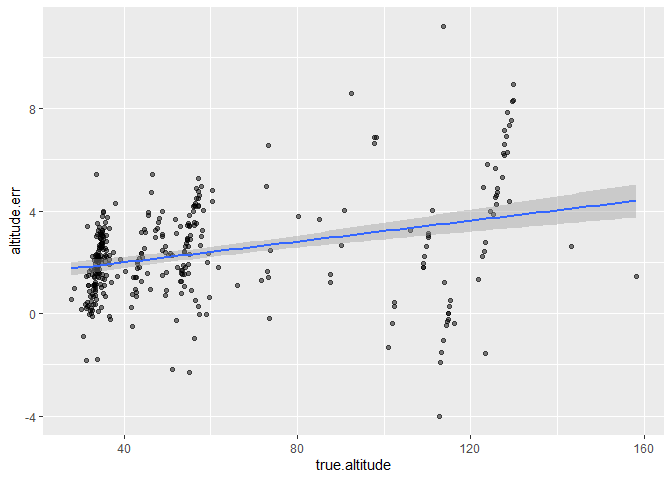
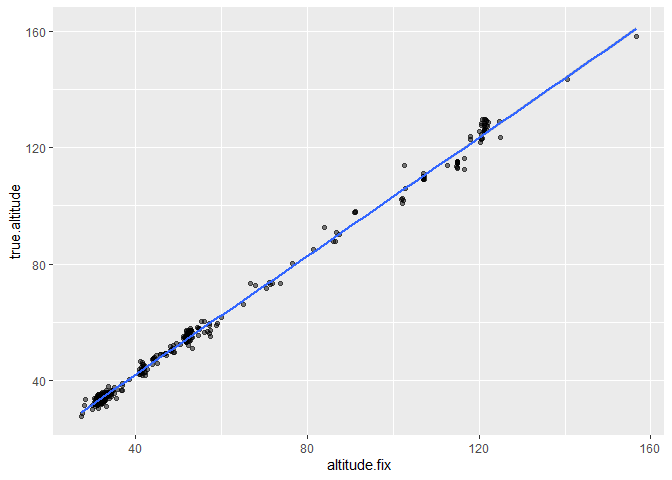
knit

diff --git a/README.md b/README.md
@@ -80,10 +80,10 @@ according to the drone’s data:
 
 *l**e**n**g**t**h* = alpha × true altitude × pixel length
 
-Where *alpha* is the camera’s correction factor, estimated in the lab by
-measuring objects of known length and distance. For the DJI Mini,
-*alpha* = 0.000328 at 3840, and *alpha* = 0.000656 at 1920 This equation
-is reflected in the following function:
+Where *alpha* is the camera’s correction factor, estimated empirically
+in the lab by measuring objects of known length and distance. For the
+DJI Mini, *alpha* = 0.000328 at 3840, and *alpha* = 0.000656 at 1920
+This equation is reflected in the following function:
 
     morpho.length.alpha <- function(image.width, altitude, length.pixels){
       alpha = ifelse(image.width == 3840, yes = 0.000328, no = 
@@ -113,8 +113,8 @@ using the DJI Mini Drone. The red line shows Balaena’s True
 length</figcaption>
 </figure>
 
-This means there is an under-estimate of Balaena’s length of mean =
-0.62, and s.d. = 0.48
+This means there is an under-estimate of Balaena’s length of mean = 0.55
+, and s.d. = 0.38
 
     dat$error <- dat$bal.length-12.03
     mean(dat$error)
@@ -125,6 +125,9 @@ This means there is an under-estimate of Balaena’s length of mean =
 
     ## [1] 0.3796155
 
+The following section models the error induced by inaccurate altitude
+measurements based on Burnett et al., 2018.
+
 ## Questions
 
 -   Where should the correction factor go - is it a constant that I add
@@ -132,11 +135,11 @@ This means there is an under-estimate of Balaena’s length of mean =
 
 ## Altitude experiment:
 
-I suspect that the majority of the error comes from bad altitude
-estimates. So I used our knowledge of Balaena’s true length, assumed all
-other measurements were adequate, and calculated **true altitude**, and
-found that the good altitudes are further away from the measured
-altitudes at higher altitudes. For this, I used the formula:
+Here, I will attempt to mitigate and measure of the error comes from bad
+altitude estimates. So I used our knowledge of Balaena’s true length,
+assumed all other measurements were adequate, and calculated **true
+altitude**, and found that the good altitudes are further away from the
+measured altitudes at higher altitudes. For this, I used the formula:
 
 $$
 true.altitude = \frac{true.length}{pixel.length}  \times alpha
@@ -158,7 +161,7 @@ Next, I estimated the altitude error as a raw value and a percentage:
     dat$altitude.err <- dat$true.altitude - dat$altitude.fix
     dat$altitude.err.p <- (dat$altitude.err/dat$true.altitude)
 
-Which results in the following error distribution in m:
+Which results in the following error distribution for the altitude in m:
 
     hist(dat$altitude.err, breaks = 30, xlab = "altitude error (m)", 
          main = "")
@@ -171,7 +174,7 @@ Which results in the following error distribution in m:
 
 How does this look across altitudes?
 
-    ggplot(dat, aes(x = true.altitude, y = altitude.err))+
+    ggplot(dat, aes(x = altitude.fix, y = true.altitude))+
       geom_point(alpha = 0.5)+
       theme(legend.position = "none")+ 
       geom_smooth(method = "lm")
@@ -179,6 +182,159 @@ How does this look across altitudes?
     ## `geom_smooth()` using formula = 'y ~ x'
 
 ![](Readme_files/figure-markdown_strict/unnamed-chunk-9-1.png)
+
+Can I model true altitude based on barometric altitude?
+
+    # model random intercept :
+    library(nlme)
+
+    ## 
+    ## Attaching package: 'nlme'
+
+    ## The following object is masked from 'package:dplyr':
+    ## 
+    ##     collapse
+
+    # should it be hierarchical?
+    m.int <- gls(true.altitude ~ altitude.fix, data = dat, method = "ML")
+    summary(m.int) #1430.031    
+
+    ## Generalized least squares fit by maximum likelihood
+    ##   Model: true.altitude ~ altitude.fix 
+    ##   Data: dat 
+    ##       AIC      BIC    logLik
+    ##   1405.26 1416.774 -699.6302
+    ## 
+    ## Coefficients:
+    ##                 Value  Std.Error   t-value p-value
+    ## (Intercept)  1.403227 0.20573563   6.82054       0
+    ## altitude.fix 1.017178 0.00326498 311.54199       0
+    ## 
+    ##  Correlation: 
+    ##              (Intr)
+    ## altitude.fix -0.872
+    ## 
+    ## Standardized residuals:
+    ##         Min          Q1         Med          Q3         Max 
+    ## -3.97545314 -0.55486561  0.03380869  0.58140085  4.31252602 
+    ## 
+    ## Residual standard error: 1.860415 
+    ## Degrees of freedom: 343 total; 341 residual
+
+    intervals(m.int, level = 0.9)
+
+    ## Approximate 90% confidence intervals
+    ## 
+    ##  Coefficients:
+    ##                 lower     est.    upper
+    ## (Intercept)  1.063900 1.403227 1.742554
+    ## altitude.fix 1.011793 1.017178 1.022563
+    ## 
+    ##  Residual standard error:
+    ##    lower     est.    upper 
+    ## 1.751039 1.860415 1.985693
+
+    # model random intercept :
+    m.rand <- lme(true.altitude ~ altitude.fix, data = dat, method = "ML",
+                  random = ~1|FlightNo)# 
+    summary(m.rand) # 1269.683  - probably yes?
+
+    ## Linear mixed-effects model fit by maximum likelihood
+    ##   Data: dat 
+    ##        AIC      BIC    logLik
+    ##   1209.342 1224.693 -600.6712
+    ## 
+    ## Random effects:
+    ##  Formula: ~1 | FlightNo
+    ##         (Intercept) Residual
+    ## StdDev:    1.560453 1.083304
+    ## 
+    ## Fixed effects:  true.altitude ~ altitude.fix 
+    ##                  Value Std.Error  DF   t-value p-value
+    ## (Intercept)  0.4708911 0.3002126 258   1.56853   0.118
+    ## altitude.fix 1.0357809 0.0042905 258 241.41272   0.000
+    ##  Correlation: 
+    ##              (Intr)
+    ## altitude.fix -0.786
+    ## 
+    ## Standardized Within-Group Residuals:
+    ##         Min          Q1         Med          Q3         Max 
+    ## -3.37722990 -0.45559838  0.05796488  0.41499318  5.39086086 
+    ## 
+    ## Number of Observations: 343
+    ## Number of Groups: 84
+
+    intervals(m.rand, level = 0.9)
+
+    ## Approximate 90% confidence intervals
+    ## 
+    ##  Fixed effects:
+    ##                    lower      est.     upper
+    ## (Intercept)  -0.02324717 0.4708911 0.9650293
+    ## altitude.fix  1.02871890 1.0357809 1.0428429
+    ## 
+    ##  Random Effects:
+    ##   Level: FlightNo 
+    ##                    lower     est.    upper
+    ## sd((Intercept)) 1.333379 1.560453 1.826198
+    ## 
+    ##  Within-group standard error:
+    ##    lower     est.    upper 
+    ## 1.006936 1.083304 1.165464
+
+    # add altitude:
+    m.rand.alt <- lme(altitude.err ~ true.altitude, data = dat, method = "ML",
+                  random = ~1|FlightNo)
+    anova(m.rand, m.int)# does help!
+
+    ##        Model df      AIC      BIC    logLik   Test L.Ratio p-value
+    ## m.rand     1  4 1209.342 1224.693 -600.6712                       
+    ## m.int      2  3 1405.260 1416.774 -699.6302 1 vs 2 197.918  <.0001
+
+    summary(m.rand.alt)# 1182.965   
+
+    ## Linear mixed-effects model fit by maximum likelihood
+    ##   Data: dat 
+    ##        AIC      BIC    logLik
+    ##   1182.965 1198.316 -587.4823
+    ## 
+    ## Random effects:
+    ##  Formula: ~1 | FlightNo
+    ##         (Intercept) Residual
+    ## StdDev:     1.57006 1.030225
+    ## 
+    ## Fixed effects:  altitude.err ~ true.altitude 
+    ##                    Value Std.Error  DF   t-value p-value
+    ## (Intercept)   0.08780486 0.2956846 258  0.296954  0.7667
+    ## true.altitude 0.04093958 0.0040099 258 10.209628  0.0000
+    ##  Correlation: 
+    ##               (Intr)
+    ## true.altitude -0.779
+    ## 
+    ## Standardized Within-Group Residuals:
+    ##         Min          Q1         Med          Q3         Max 
+    ## -3.43058937 -0.47390381  0.05549121  0.41167208  5.08073943 
+    ## 
+    ## Number of Observations: 343
+    ## Number of Groups: 84
+
+    intervals(m.rand.alt, level = 0.9)
+
+    ## Approximate 90% confidence intervals
+    ## 
+    ##  Fixed effects:
+    ##                     lower       est.      upper
+    ## (Intercept)   -0.39888055 0.08780486 0.57449027
+    ## true.altitude  0.03433944 0.04093958 0.04753972
+    ## 
+    ##  Random Effects:
+    ##   Level: FlightNo 
+    ##                    lower    est.    upper
+    ## sd((Intercept)) 1.342338 1.57006 1.836414
+    ## 
+    ##  Within-group standard error:
+    ##     lower      est.     upper 
+    ## 0.9570976 1.0302250 1.1089397
 
 How does **percent** error compare to altitude?
 
@@ -189,7 +345,7 @@ How does **percent** error compare to altitude?
 
     ## `geom_smooth()` using formula = 'y ~ x'
 
-![](Readme_files/figure-markdown_strict/unnamed-chunk-10-1.png)
+![](Readme_files/figure-markdown_strict/unnamed-chunk-11-1.png)
 
 Which looks like error is proportional, more than an added constant
 
@@ -202,9 +358,10 @@ Which looks like error is proportional, more than an added constant
     ##          5%         95% 
     ## -0.00363185  0.09236528
 
-So if I add this percent altitude to my correction:
+So if I add the result from the gls model:
 
-    dat$altitude.corr <-dat$altitude.fix*(1+mean(dat$altitude.err.p))
+    dat$altitude.corr <-0.47 + dat$altitude.fix*1.04
+
 
 
     dat$bal.length.c<- morpho.length.alpha(altitude =dat$altitude.corr,
@@ -213,12 +370,12 @@ So if I add this percent altitude to my correction:
     quantile(dat$bal.length.c, probs = c(0.05, 0.5, 0.95))
 
     ##       5%      50%      95% 
-    ## 11.41517 11.98407 12.62251
+    ## 11.49302 12.04951 12.68317
 
     hist(dat$bal.length.c, breaks = 30, main = "", xlab = "estimated length")
     abline(v = 12.03, col = 2, lwd = 2)
 
-![](Readme_files/figure-markdown_strict/unnamed-chunk-13-1.png)
+![](Readme_files/figure-markdown_strict/unnamed-chunk-14-1.png)
 
 Look at error pre & post correction:
 
@@ -248,4 +405,4 @@ What is the 95% confidence interval:
     quantile(dat$length.error.c.p, probs=c(0.05, 0.95))
 
     ##        5%       95% 
-    ## -5.386118  4.694037
+    ## -4.672249  5.149910
